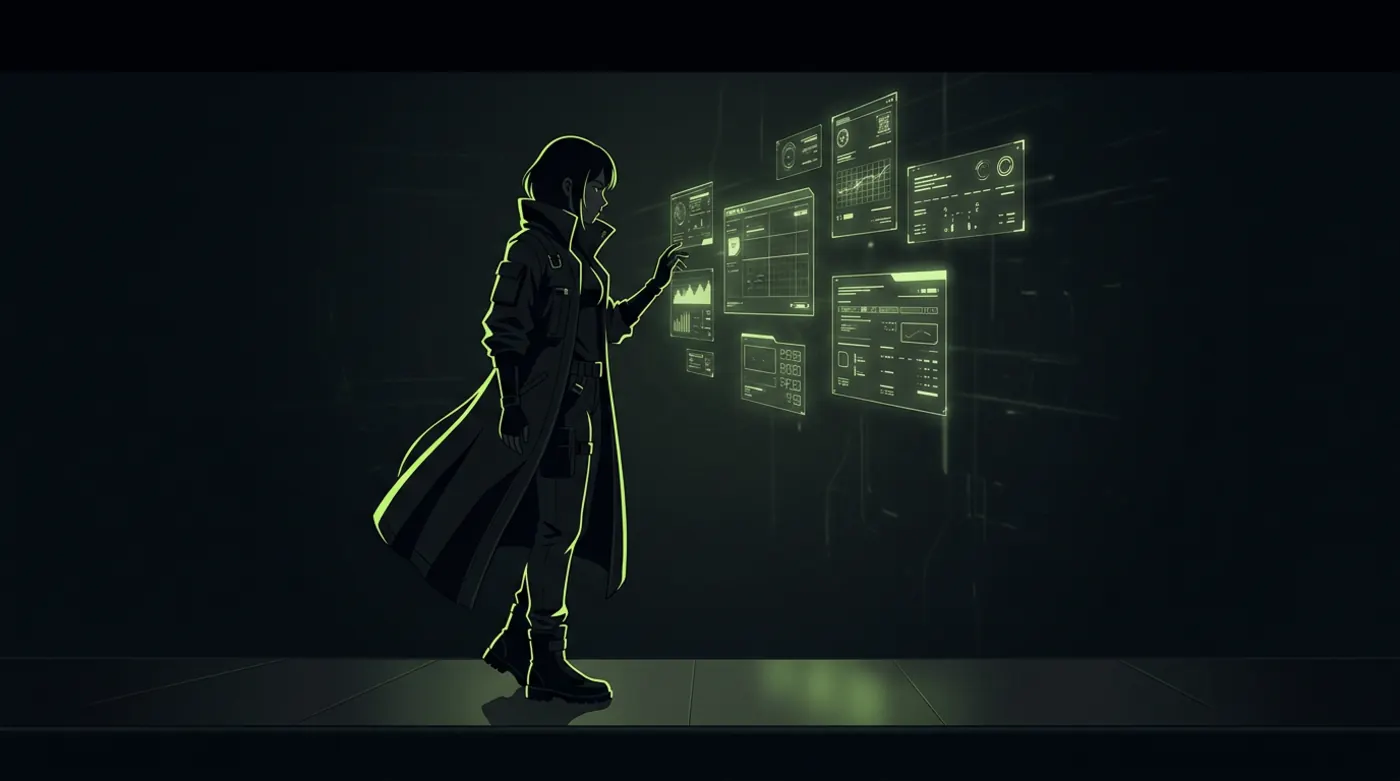
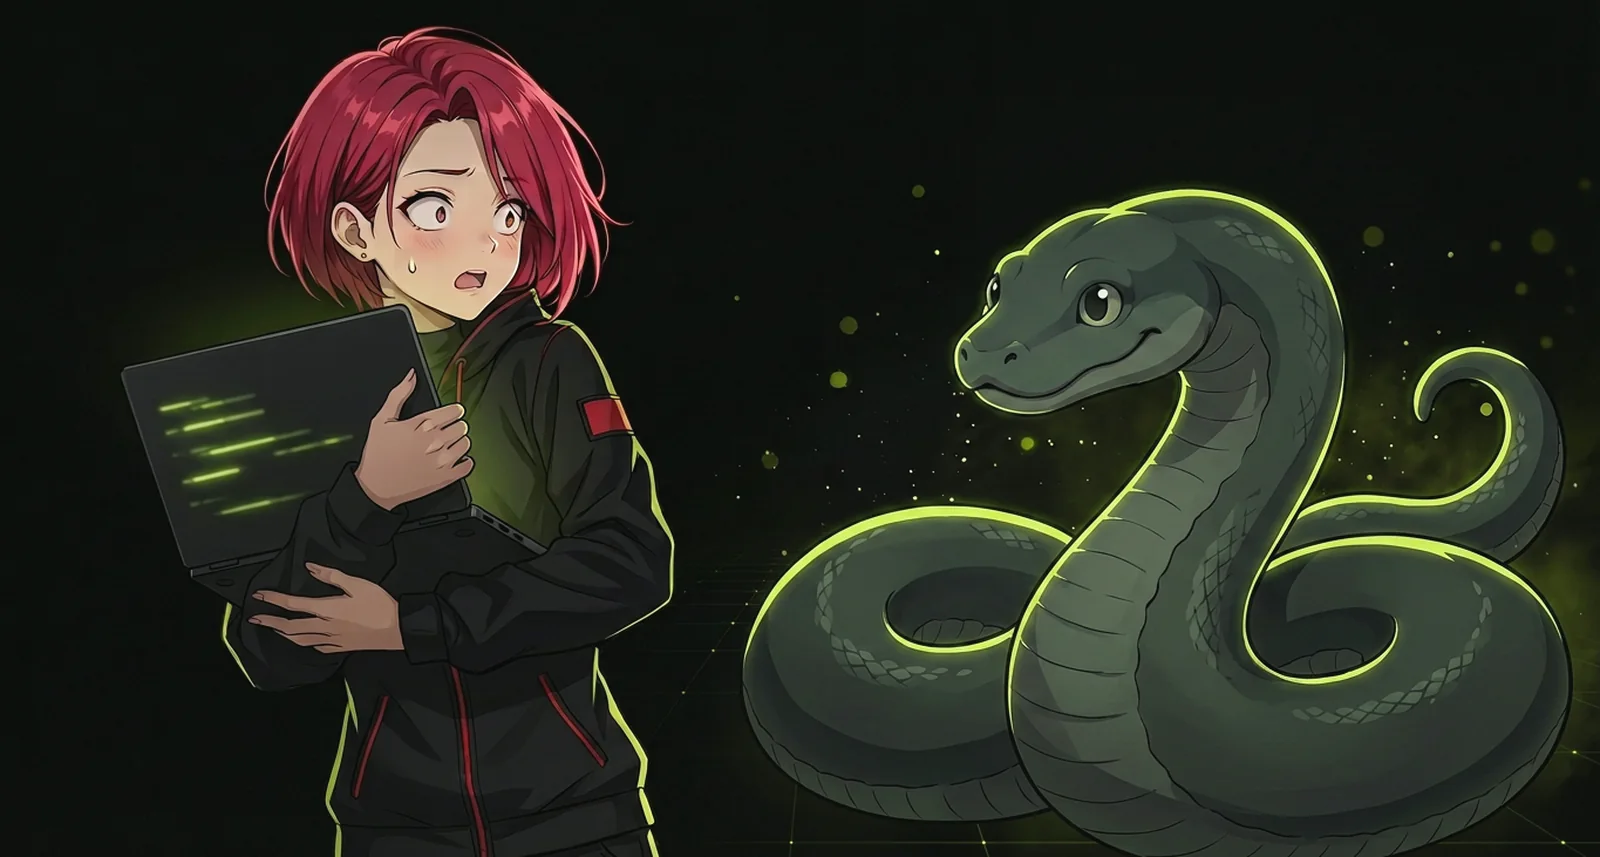
Rework homepage anime artwork into a consistent Guison mascot set
Artwork-only pass. No redesign: sections, copy, layout, API, docs,
Telegram and deployment are unchanged.

New original illustrations (generated, not sourced from the internet):
- hero.webp   — lime mascot at a laptop, right-anchored with empty
                left space reserved for the existing headline block
- divider.webp — red mascot comically startled by a harmless cartoon
                python snake (gentle programming joke, no threat)
- faq.webp    — lime mascot relaxing beside a finished terminal

All three share one visual system: charcoal #0a0c0a base, lime accent,
matching line quality, cel shading and face design. Laptop screens carry
abstract green light-bars only, so no text is baked into any image.

Integration:
- artwork rendered on the exact page background and faded with radial
  masks, replacing the hero border/rounded rectangle so the characters
  merge into the page instead of sitting in a visible box
- intrinsic width/height attributes now match the real files, keeping
  aspect ratios identical to the previous slots (no layout shift)
- hero stays eager with fetchpriority=high; divider and FAQ stay lazy
- mobile: hero crops to the character via object-position so the mascot
  stays large when the grid stacks, and the divider is width-capped

diff --git a/internal/httpapi/assets/site.css b/internal/httpapi/assets/site.css
@@ -195,9 +195,13 @@ h3 { font-size: 1.12rem; }
 .stat span { font-size: 0.82rem; color: var(--muted); }
 
 .hero-art { position: relative; }
+/* The artwork is generated on the exact page background (--bg) and its edges are
+   faded through a mask, so it merges into the page instead of sitting in a box. */
 .hero-art img {
-  width: 100%; border-radius: 18px; border: 1px solid var(--line);
+  width: 100%; height: auto; display: block;
   filter: drop-shadow(0 0 46px rgba(180, 255, 46, 0.14));
+  mask-image: radial-gradient(120% 108% at 68% 50%, #000 52%, transparent 96%);
+  -webkit-mask-image: radial-gradient(120% 108% at 68% 50%, #000 52%, transparent 96%);
 }
 .hero-art::after {
   content: ""; position: absolute; inset: -14%; z-index: -1; border-radius: 50%;
@@ -363,8 +367,14 @@ code:not(pre code) {
 .ep-desc { color: var(--muted); font-size: 0.88rem; }
 
 /* ---------- Divider art ---------- */
-.divider-art { position: relative; margin: 0; padding: 0; overflow: hidden; line-height: 0; }
-.divider-art img { width: 100%; opacity: 0.5; mask-image: linear-gradient(to bottom, transparent, #000 32%, #000 68%, transparent); -webkit-mask-image: linear-gradient(to bottom, transparent, #000 32%, #000 68%, transparent); }
+.divider-art { position: relative; margin: 0 auto; padding: 0; overflow: hidden; line-height: 0; max-width: 980px; }
+/* Holds a character illustration, so the fade only softens the outer edges and
+   never crops the character. Edges dissolve into the page background. */
+.divider-art img {
+  width: 100%; height: auto; display: block; opacity: 0.9;
+  mask-image: radial-gradient(96% 116% at 50% 50%, #000 56%, transparent 97%);
+  -webkit-mask-image: radial-gradient(96% 116% at 50% 50%, #000 56%, transparent 97%);
+}
 
 /* ---------- Telegram ---------- */
 .tg-wrap {
@@ -391,7 +401,12 @@ code:not(pre code) {
 /* ---------- FAQ ---------- */
 .faq-layout { display: grid; grid-template-columns: 1fr 300px; gap: 44px; align-items: start; }
 .faq-art { position: relative; position: sticky; top: 110px; }
-.faq-art img { width: 100%; border-radius: var(--radius); opacity: 0.94; filter: drop-shadow(0 0 32px rgba(180, 255, 46, 0.14)); }
+.faq-art img {
+  width: 100%; height: auto; display: block; opacity: 0.94;
+  filter: drop-shadow(0 0 32px rgba(180, 255, 46, 0.14));
+  mask-image: radial-gradient(118% 112% at 50% 52%, #000 54%, transparent 95%);
+  -webkit-mask-image: radial-gradient(118% 112% at 50% 52%, #000 54%, transparent 95%);
+}
 
 .faq-list { display: flex; flex-direction: column; gap: 10px; }
 details.faq {
@@ -487,9 +502,21 @@ table.api td:first-child { color: var(--text); font-family: var(--mono); font-si
 /* ---------- Responsive ---------- */
 @media (max-width: 980px) {
   .hero-grid { grid-template-columns: 1fr; gap: 40px; }
-  .hero-art { max-width: 440px; margin: 0 auto; order: -1; }
+  /* Stacked hero: crop the empty desktop text-space out of the artwork so the
+     mascot stays large and readable instead of shrinking to a thumbnail. */
+  .hero-art {
+    max-width: 440px; margin: 0 auto; order: -1;
+    aspect-ratio: 5 / 4; overflow: hidden;
+  }
+  .hero-art img {
+    width: 100%; height: 100%; object-fit: cover; object-position: 74% 42%;
+    mask-image: radial-gradient(112% 106% at 52% 48%, #000 58%, transparent 97%);
+    -webkit-mask-image: radial-gradient(112% 106% at 52% 48%, #000 58%, transparent 97%);
+  }
   .faq-layout { grid-template-columns: 1fr; }
   .faq-art { display: none; }
+  /* Keep the divider character legible without dominating narrow screens. */
+  .divider-art { max-width: 520px; }
   .docs-layout { grid-template-columns: 1fr; gap: 26px; padding-top: 26px; }
   .toc { position: static; max-height: none; padding-bottom: 18px; border-bottom: 1px solid var(--line); }
   .toc ul { flex-direction: row; flex-wrap: wrap; gap: 5px; }

diff --git a/internal/httpapi/site_home.go b/internal/httpapi/site_home.go
@@ -29,7 +29,7 @@ const homeHTML = `
       </div>
     </div>
     <div class="hero-art">
-      <img src="/assets/art/hero.webp" width="900" height="514" alt="" role="presentation" fetchpriority="high" decoding="async">
+      <img src="/assets/art/hero.webp" width="1600" height="913" alt="" role="presentation" fetchpriority="high" decoding="async">
     </div>
   </div>
 </section>
@@ -126,7 +126,7 @@ const homeHTML = `
 </section>
 
 <div class="divider-art" aria-hidden="true">
-  <img src="/assets/art/divider.webp" width="1400" height="750" alt="" loading="lazy" decoding="async">
+  <img src="/assets/art/divider.webp" width="1600" height="857" alt="" loading="lazy" decoding="async">
 </div>
 
 <section class="section" id="endpoints" style="padding-top:26px">
@@ -301,7 +301,7 @@ const homeHTML = `
         </details>
       </div>
       <aside class="faq-art" aria-hidden="true">
-        <img src="/assets/art/faq.webp" width="460" height="276" alt="" loading="lazy" decoding="async">
+        <img src="/assets/art/faq.webp" width="920" height="552" alt="" loading="lazy" decoding="async">
       </aside>
     </div>
   </div>
